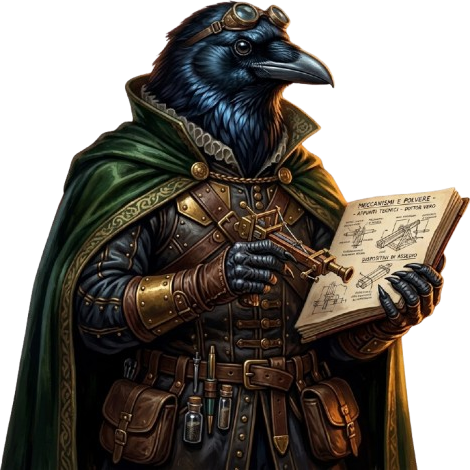
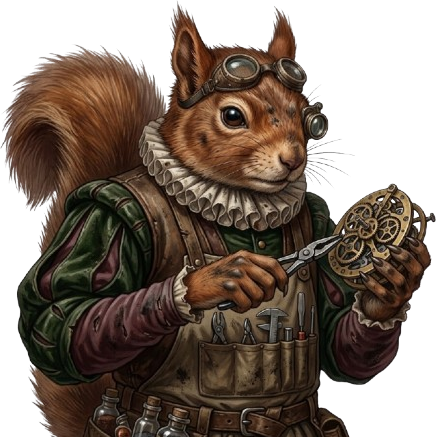
changement des inconsistance des personnage oiseaux

diff --git a/app/composables/useCampoFrontiera.ts b/app/composables/useCampoFrontiera.ts
@@ -39,7 +39,7 @@ const tavernCandidates: CampoNpcCandidate[] = [
 
 const forgeCandidates: CampoNpcCandidate[] = [
   { id: 'forge-ambra', name: 'Ambra Blaireau', species: 'Mustacea — tasso', qualities: 'Solide, précise, excellente en réparation', flaws: 'Lente et exigeante avec les apprentis', background: 'Ambra a réparé les outils des vignerons de Vallombra pendant vingt ans, en remplaçant rarement une pièce qu’elle pouvait sauver. Elle a quitté son ancien atelier après un conflit avec un marchand qui falsifiait la qualité du métal. Elle accepte la forge du camp si les matériaux sont honnêtes et si les réparations urgentes ne deviennent pas un prétexte pour bâcler son travail.', personality: 'Patiente avec les objets, beaucoup moins avec les excuses. Ambra parle peu, observe les gestes et corrige sans humilier, mais son silence devient glacial quand quelqu’un gaspille une ressource ou cache une erreur.', income: 8, visitors: 0, growth: 1 },
-  { id: 'forge-dario', name: 'Dario Corbeau', species: 'Corbea — corvo', qualities: 'Inventif, trouve des matériaux et des solutions', flaws: 'Se déconcentre dès qu’une idée plus brillante arrive', background: 'Dario a appris la mécanique dans les réserves d’un ancien atelier militaire, où il démontait les mécanismes condamnés pour comprendre leur logique. Il collectionne ressorts, charnières et fragments de serrures, convaincu qu’une pièce abandonnée finira toujours par servir. Il rejoint le camp pour avoir accès à un stock régulier et à des problèmes assez complexes pour nourrir son inventivité.', personality: 'Curieux, enthousiaste et incapable de laisser une question technique en suspens, Dario griffonne des schémas partout. Il adore les discussions avec les personnes qui construisent, mais oublie facilement une tâche banale dès qu’une nouvelle idée lui traverse l’esprit.', income: 12, visitors: 0, growth: 0 },
+  { id: 'forge-dario', name: 'Dario Castor', species: 'Rodentia — castoro', qualities: 'Inventif, trouve des matériaux et des solutions', flaws: 'Se déconcentre dès qu’une idée plus brillante arrive', background: 'Dario a appris la mécanique dans les réserves d’un ancien atelier militaire, où il démontait les mécanismes condamnés pour comprendre leur logique. Il collectionne ressorts, charnières et fragments de serrures, convaincu qu’une pièce abandonnée finira toujours par servir. Il rejoint le camp pour avoir accès à un stock régulier et à des problèmes assez complexes pour nourrir son inventivité.', personality: 'Curieux, enthousiaste et incapable de laisser une question technique en suspens, Dario griffonne des schémas partout. Il adore les discussions avec les personnes qui construisent, mais oublie facilement une tâche banale dès qu’une nouvelle idée lui traverse l’esprit.', income: 12, visitors: 0, growth: 0 },
   { id: 'forge-lucia', name: 'Lucia Lapine', species: 'Rodentia — lepre', qualities: 'Travaille vite et apprend auprès de chacun', flaws: 'Manque encore de force et d’assurance', background: 'Lucia réparait les outils de sa communauté avec des manches récupérés et des pierres de fortune comme enclume. Elle a appris en regardant les artisans, puis en recommençant seule jusqu’à obtenir un résultat fiable. Elle cherche au camp un maître qui lui laissera le temps de devenir forgeronne sans lui confier immédiatement les travaux les plus dangereux.', personality: 'Vive, attentive et très volontaire, Lucia pose beaucoup de questions avant de toucher à un outil. Elle doute de ses propres décisions sous pression, mais retrouve toute son énergie dès qu’une personne lui montre clairement ce qu’elle peut améliorer.', income: 4, visitors: 0, growth: 4 },
 ];
 
@@ -112,13 +112,13 @@ const constructions: CampoConstruction[] = [
   { id: 'workshop-plus-1', name: 'Atelier +1', category: 'Artisanat', description: 'Ajoute un banc de sciage et un stock de pièces standardisées.', requires: ['workshop', 'tavern'], level: 4, cost: 300, baseIncome: 16, baseVisitors: 1, benefit: 'Les chantiers sont organisés en série et coûtent moins cher.', constructionDiscount: .1, candidates: [] },
   { id: 'workshop-plus-2', name: 'Atelier +2', category: 'Artisanat', description: 'Équipe l’atelier d’un treuil et d’outils de charpente lourde.', requires: ['workshop-plus-1', 'stone-wall'], level: 5, cost: 480, baseIncome: 20, baseVisitors: 1, benefit: 'Le camp peut produire et réparer ses grands ouvrages sur place.', constructionDiscount: .1, candidates: [] },
   { id: 'watchtower', name: 'Tour de guet', category: 'Renseignement', description: 'Surveille la route et les terres sèches.', requires: ['palisade'], level: 1, cost: 180, baseIncome: 5, baseVisitors: 1, benefit: 'Les menaces sont repérées plus tôt.', candidates: watchCandidates },
-  { id: 'tannery', name: 'Tannerie', category: 'Artisanat', description: 'Transforme les peaux et fournit cuir, courroies et protections.', requires: ['workshop'], level: 4, cost: 210, baseIncome: 24, baseVisitors: 1, benefit: 'Le camp développe une production marchande.', access: ['Gambeson et tabarda imbottita', 'Courroies, étuis et entretien des protections'], candidates: genericCandidates('tannery', ['Bice Renarde', 'Sisto Corbeau', 'Mina Fouine'], ['Licae — volpe rossa', 'Corbea — corvo', 'Mustacea — faina']) },
+  { id: 'tannery', name: 'Tannerie', category: 'Artisanat', description: 'Transforme les peaux et fournit cuir, courroies et protections.', requires: ['workshop'], level: 4, cost: 210, baseIncome: 24, baseVisitors: 1, benefit: 'Le camp développe une production marchande.', access: ['Gambeson et tabarda imbottita', 'Courroies, étuis et entretien des protections'], candidates: genericCandidates('tannery', ['Bice Renarde', 'Sisto Castor', 'Mina Fouine'], ['Licae — volpe rossa', 'Rodentia — castoro', 'Mustacea — faina']) },
   { id: 'tannery-plus-1', name: 'Tannerie +1', category: 'Artisanat', description: 'Installe des cuves couvertes et un espace de coupe sur mesure.', requires: ['tannery', 'forge-plus-1'], level: 5, cost: 390, baseIncome: 34, baseVisitors: 2, benefit: 'Les protections sont ajustées et l’armurerie du camp peut tenir du stock.', access: ['Brigantina, giaco di maglia et maglia di ferro', 'Armatures avianes adaptées, à commander depuis Nidialti ou Rodelia'], candidates: [] },
   { id: 'map-room', name: 'Salle des cartes', category: 'Commandement', description: 'Centralise cartes, rapports et décisions.', requires: ['watchtower'], level: 2, cost: 240, baseIncome: 10, baseVisitors: 2, benefit: 'Les visiteurs et les missions sont mieux orientés.', candidates: genericCandidates('map-room', ['Cassio Corbe', 'Renzo Taupe', 'Mara Rossa'], ['Corbea — corvo', 'Rodentia — topo', 'Licae — volpe rossa']) },
   { id: 'church', name: 'Chapelle', category: 'Communauté', description: 'Un lieu de recueillement pour les habitants et voyageurs.', requires: ['cabins'], level: 2, cost: 220, baseIncome: 4, baseVisitors: 5, benefit: 'Attire habitants et pèlerins, mais demande une présence constante.', candidates: genericCandidates('church', ['Sœur Alba', 'Frère Neri', 'Pia Croyante'], ['Striga — gufo', 'Corbea — corvo', 'Felide — gatto']) },
   { id: 'infirmary', name: 'Infirmerie', category: 'Communauté', description: 'Soigne les blessés et les ouvriers.', requires: ['cabins', 'forge'], level: 3, cost: 260, baseIncome: 0, baseVisitors: 2, benefit: 'Les habitants récupèrent plus sûrement après un incident.', candidates: genericCandidates('infirmary', ['Dottoressa Ilaria', 'Marta Soigneuse', 'Tullio Herboriste'], ['Felide — gatto', 'Mustacea — tasso', 'Rodentia — topo']) },
   { id: 'stone-wall', name: 'Muraille de pierre', category: 'Défense', description: 'Remplace la palissade par une enceinte capable de tenir un siège.', requires: ['workshop', 'watchtower'], level: 4, cost: 600, baseIncome: 0, baseVisitors: 0, benefit: 'Défense de fin de campagne.', candidates: genericCandidates('stone-wall', ['Livia Pierreferme', 'Orazio Brun', 'Cesare Maçon'], ['Mustacea — tasso', 'Urcida — orso bruno', 'Urcida — orso bruno']) },
-  { id: 'artificer', name: 'Laboratoire d’artificier', category: 'End game', description: 'Un atelier rare pour expérimenter poudres, mécanismes et défenses.', requires: ['forge-plus-1', 'map-room'], level: 4, cost: 520, baseIncome: 38, baseVisitors: 1, benefit: 'Débloque des solutions exceptionnelles pour le final.', access: ['Entretien de pistolets et mousquets', 'Poudre noire et munitions, sous la responsabilité d’un geniere'], candidates: genericCandidates('artificer', ['Dottor Vero', 'Milo Inventeur', 'Nerina Curieuse'], ['Corbea — corvo', 'Rodentia — topo', 'Felide — gatto']) },
+  { id: 'artificer', name: 'Laboratoire d’artificier', category: 'End game', description: 'Un atelier rare pour expérimenter poudres, mécanismes et défenses.', requires: ['forge-plus-1', 'map-room'], level: 4, cost: 520, baseIncome: 38, baseVisitors: 1, benefit: 'Débloque des solutions exceptionnelles pour le final.', access: ['Entretien de pistolets et mousquets', 'Poudre noire et munitions, sous la responsabilité d’un geniere'], candidates: genericCandidates('artificer', ['Dottor Vero', 'Milo Inventeur', 'Nerina Curieuse'], ['Rodentia — scoiattolo', 'Rodentia — topo', 'Felide — gatto']) },
   { id: 'artificer-plus-1', name: 'Laboratoire +1', category: 'End game', description: 'Ajoute un tour de mécanique fine et une chambre de poudre sécurisée.', requires: ['artificer', 'forge-plus-2'], level: 5, cost: 740, baseIncome: 48, baseVisitors: 1, benefit: 'Les mécanismes complexes deviennent réparables au Campo.', access: ['Arquebuses et colubrines', 'Pièces de rechange et maintenance avancée des armes à feu'], candidates: [] },
   { id: 'artificer-plus-2', name: 'Laboratoire +2', category: 'End game', description: 'Aménage une fosse d’essai et une remise d’artillerie hors de l’enceinte.', requires: ['artificer-plus-1', 'stone-wall'], level: 6, cost: 1100, baseIncome: 62, baseVisitors: 2, benefit: 'Le Campo possède une capacité de défense lourde, à employer avec prudence.', access: ['Bombardes et falconetti', 'Entretien des pièces d’artillerie et de leurs munitions'], candidates: [] },
 ];
@@ -128,12 +128,12 @@ export const CAMPO_STARTING_IDS = ['tents', 'palisade'];
 export const CAMPO_NPC_CANDIDATES = constructions.flatMap((construction) => construction.candidates.map((candidate) => ({ candidate, construction: construction.name })));
 const candidateSlugs: Record<string, string> = {
   'tavern-elisabetta': 'elisabetta-tasso', 'tavern-ruggero': 'ruggero-volpe', 'tavern-niccolo': 'niccolo-souris',
-  'forge-ambra': 'ambra-blaireau', 'forge-dario': 'dario-corbeau', 'forge-lucia': 'lucia-lapine',
+  'forge-ambra': 'ambra-blaireau', 'forge-dario': 'dario-castor', 'forge-lucia': 'lucia-lapine',
   'watch-cesare': 'cesare-corbeau',
   'cistern-1': 'orazio-brun', 'watch-orazio': 'orazio-brun', 'stone-wall-2': 'orazio-brun',
   'cistern-2': 'marta-castor', 'cistern-3': 'piero-campagnol',
   'workshop-1': 'nardo-digue', 'workshop-2': 'ada-lavandaia', 'workshop-3': 'lello-castor',
-  'tannery-1': 'bice-renarde', 'tannery-2': 'sisto-corbeau', 'tannery-3': 'mina-fouine',
+  'tannery-1': 'bice-renarde', 'tannery-2': 'sisto-castor', 'tannery-3': 'mina-fouine',
   'map-room-1': 'cassio-corbe', 'map-room-2': 'renzo', 'map-room-3': 'mara-rossa', 'watch-mara': 'mara-rossa',
   'church-1': 'soeur-alba', 'church-2': 'frere-neri', 'church-3': 'pia-croyante',
   'infirmary-1': 'dottoressa-ilaria', 'infirmary-2': 'marta-soigneuse', 'infirmary-3': 'tullio-herboriste',

diff --git a/app/components/ProjectionDock.vue b/app/components/ProjectionDock.vue
@@ -106,7 +106,8 @@ const campEmployeeActors = computed<ProjectionActor[]>(() => {
     if (!candidate) continue;
     const slug = campoCandidateSlug(candidate.id);
     const actorId = `npcs:${slug}`;
-    seen.set(candidate.id, { id: actorId, name: candidate.name, image: `/images/npcs/${slug}.png`, collection: 'npcs' });
+    const image = npcs.value?.find((entry) => entry.id === slug)?.data.image;
+    seen.set(candidate.id, { id: actorId, name: candidate.name, image: typeof image === 'string' && image ? image : `/images/npcs/${slug}.png`, collection: 'npcs' });
   }
   return Array.from(seen.values());
 });

diff --git a/src/content/npcs/dario-castor.md b/src/content/npcs/dario-castor.md
@@ -1,9 +1,9 @@
 ---
-name: "Dario Corbeau"
+name: "Dario Castor"
 role: "Mécanicien candidat de la forge"
-familia: "Corbea — corvo (aviano)"
+familia: "Rodentia — castoro (theria)"
 location: "Vallombra"
-image: "/images/npcs/dario-corbeau.png"
+image: "/images/npcs/dario-castor.png"
 tags:
   - "Employé du camp"
 summary: "Inventeur distrait qui transforme les mécanismes abandonnés en solutions inattendues."

diff --git a/src/content/npcs/sisto-castor.md b/src/content/npcs/sisto-castor.md
@@ -1,9 +1,9 @@
 ---
-name: "Sisto Corbeau"
+name: "Sisto Castor"
 role: "Tanneur candidat du Campo"
-familia: "Corbea — corvo (aviano)"
+familia: "Rodentia — castoro (theria)"
 location: "Vallombra"
-image: "/images/npcs/sisto-corbeau.png"
+image: "/images/npcs/sisto-castor.png"
 tags:
   - "Employé du camp"
 summary: "Artisan inventif qui cherche à économiser l’eau et à moderniser le travail du cuir."

diff --git a/src/content/npcs/dottor-vero.md b/src/content/npcs/dottor-vero.md
@@ -1,7 +1,7 @@
 ---
 name: "Dottor Vero"
 role: "Artificier candidat du Campo"
-familia: "Corbea — corvo (aviano)"
+familia: "Rodentia — scoiattolo (theria)"
 location: "Vallombra"
 image: "/images/npcs/dottor-vero.png"
 tags:
